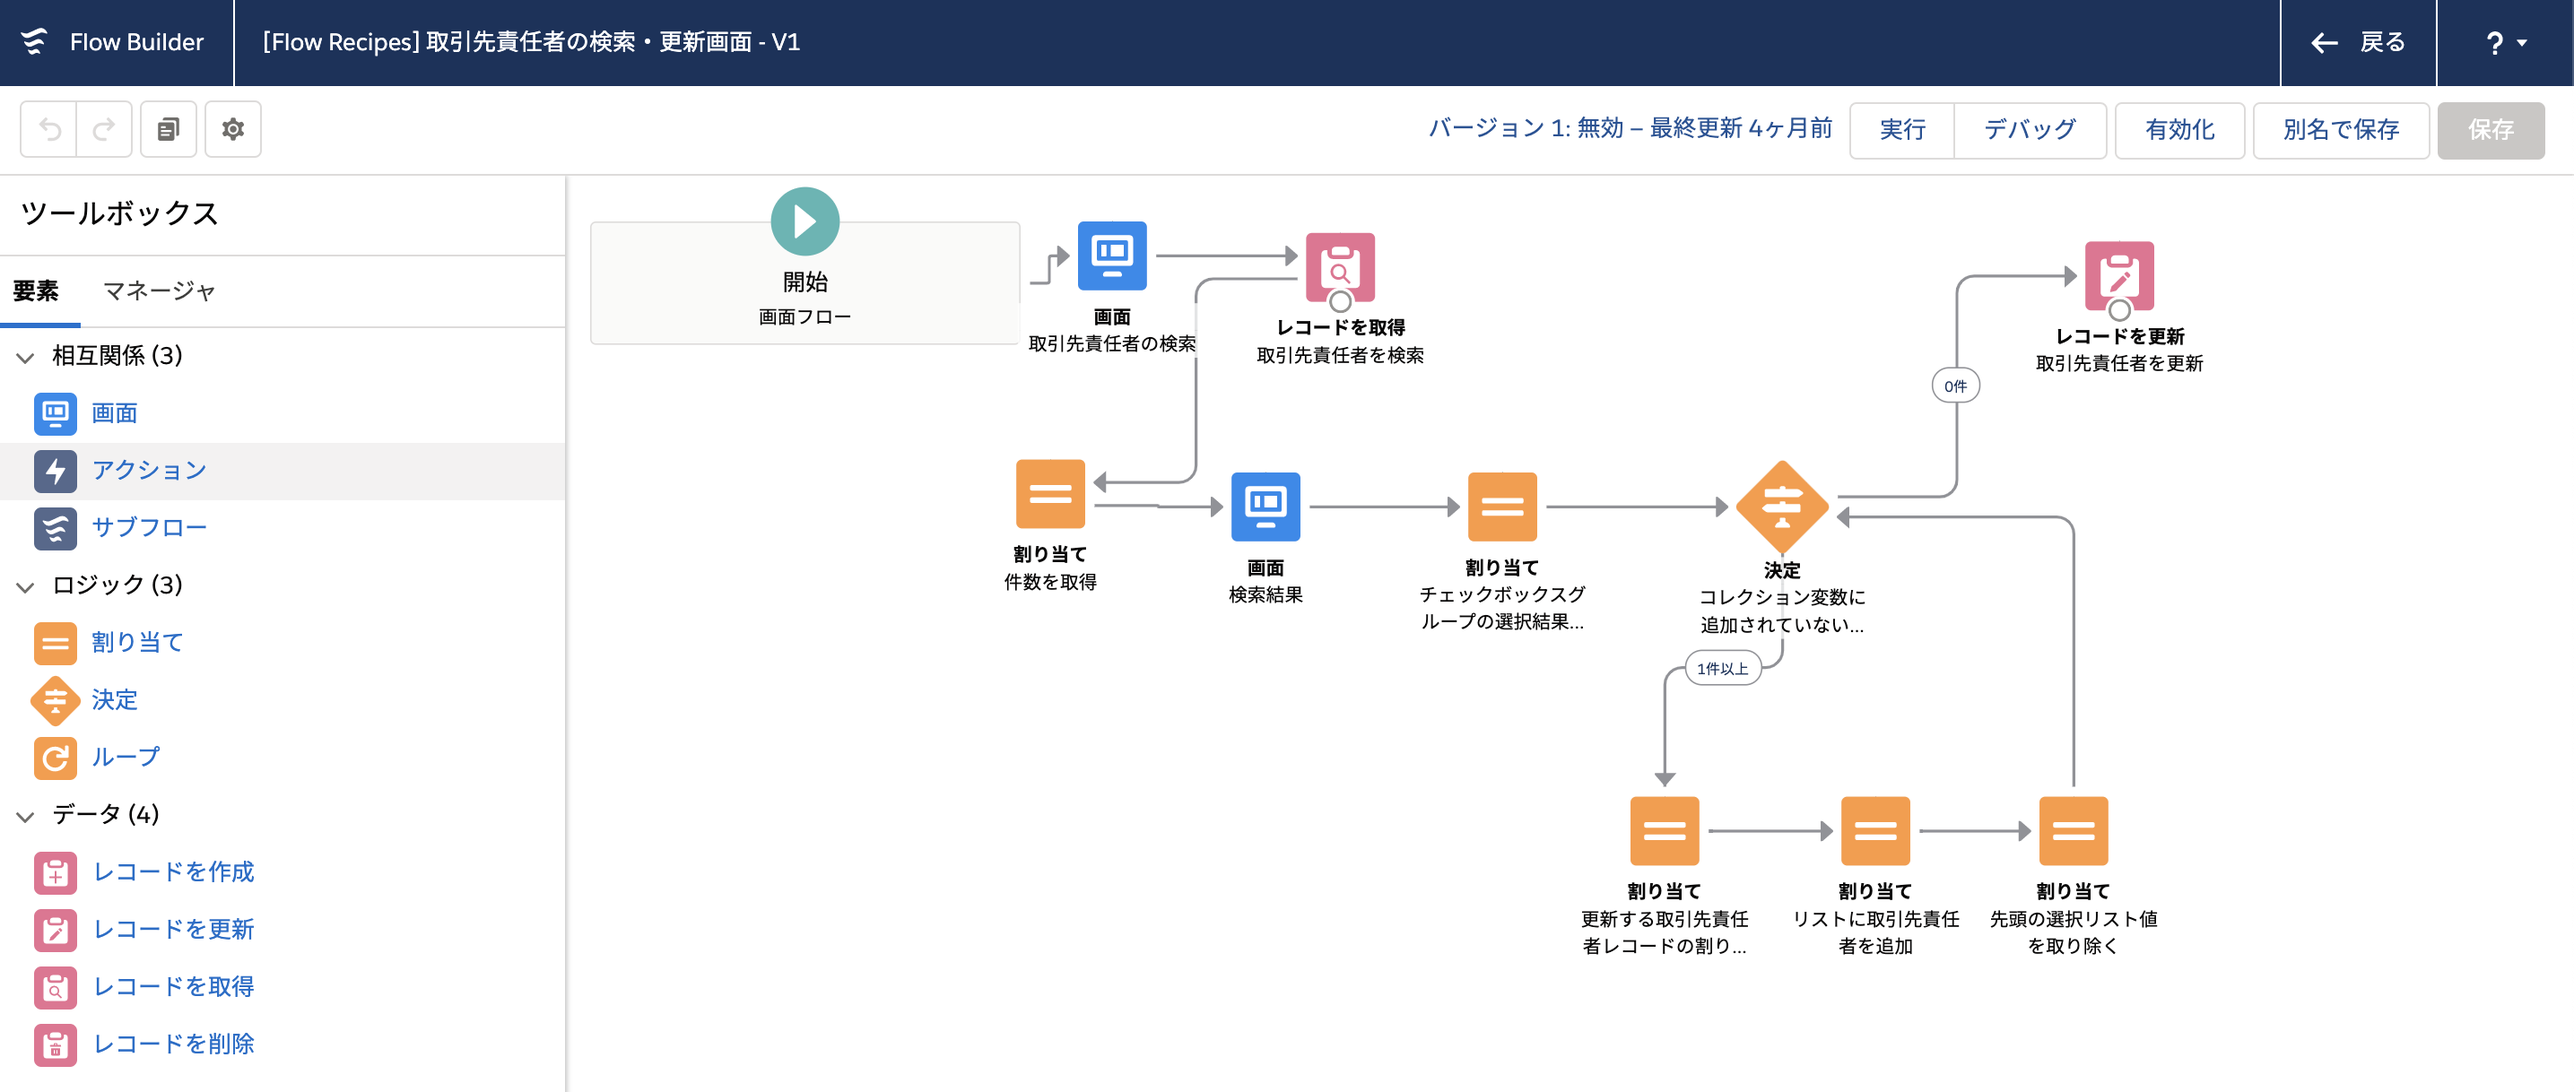
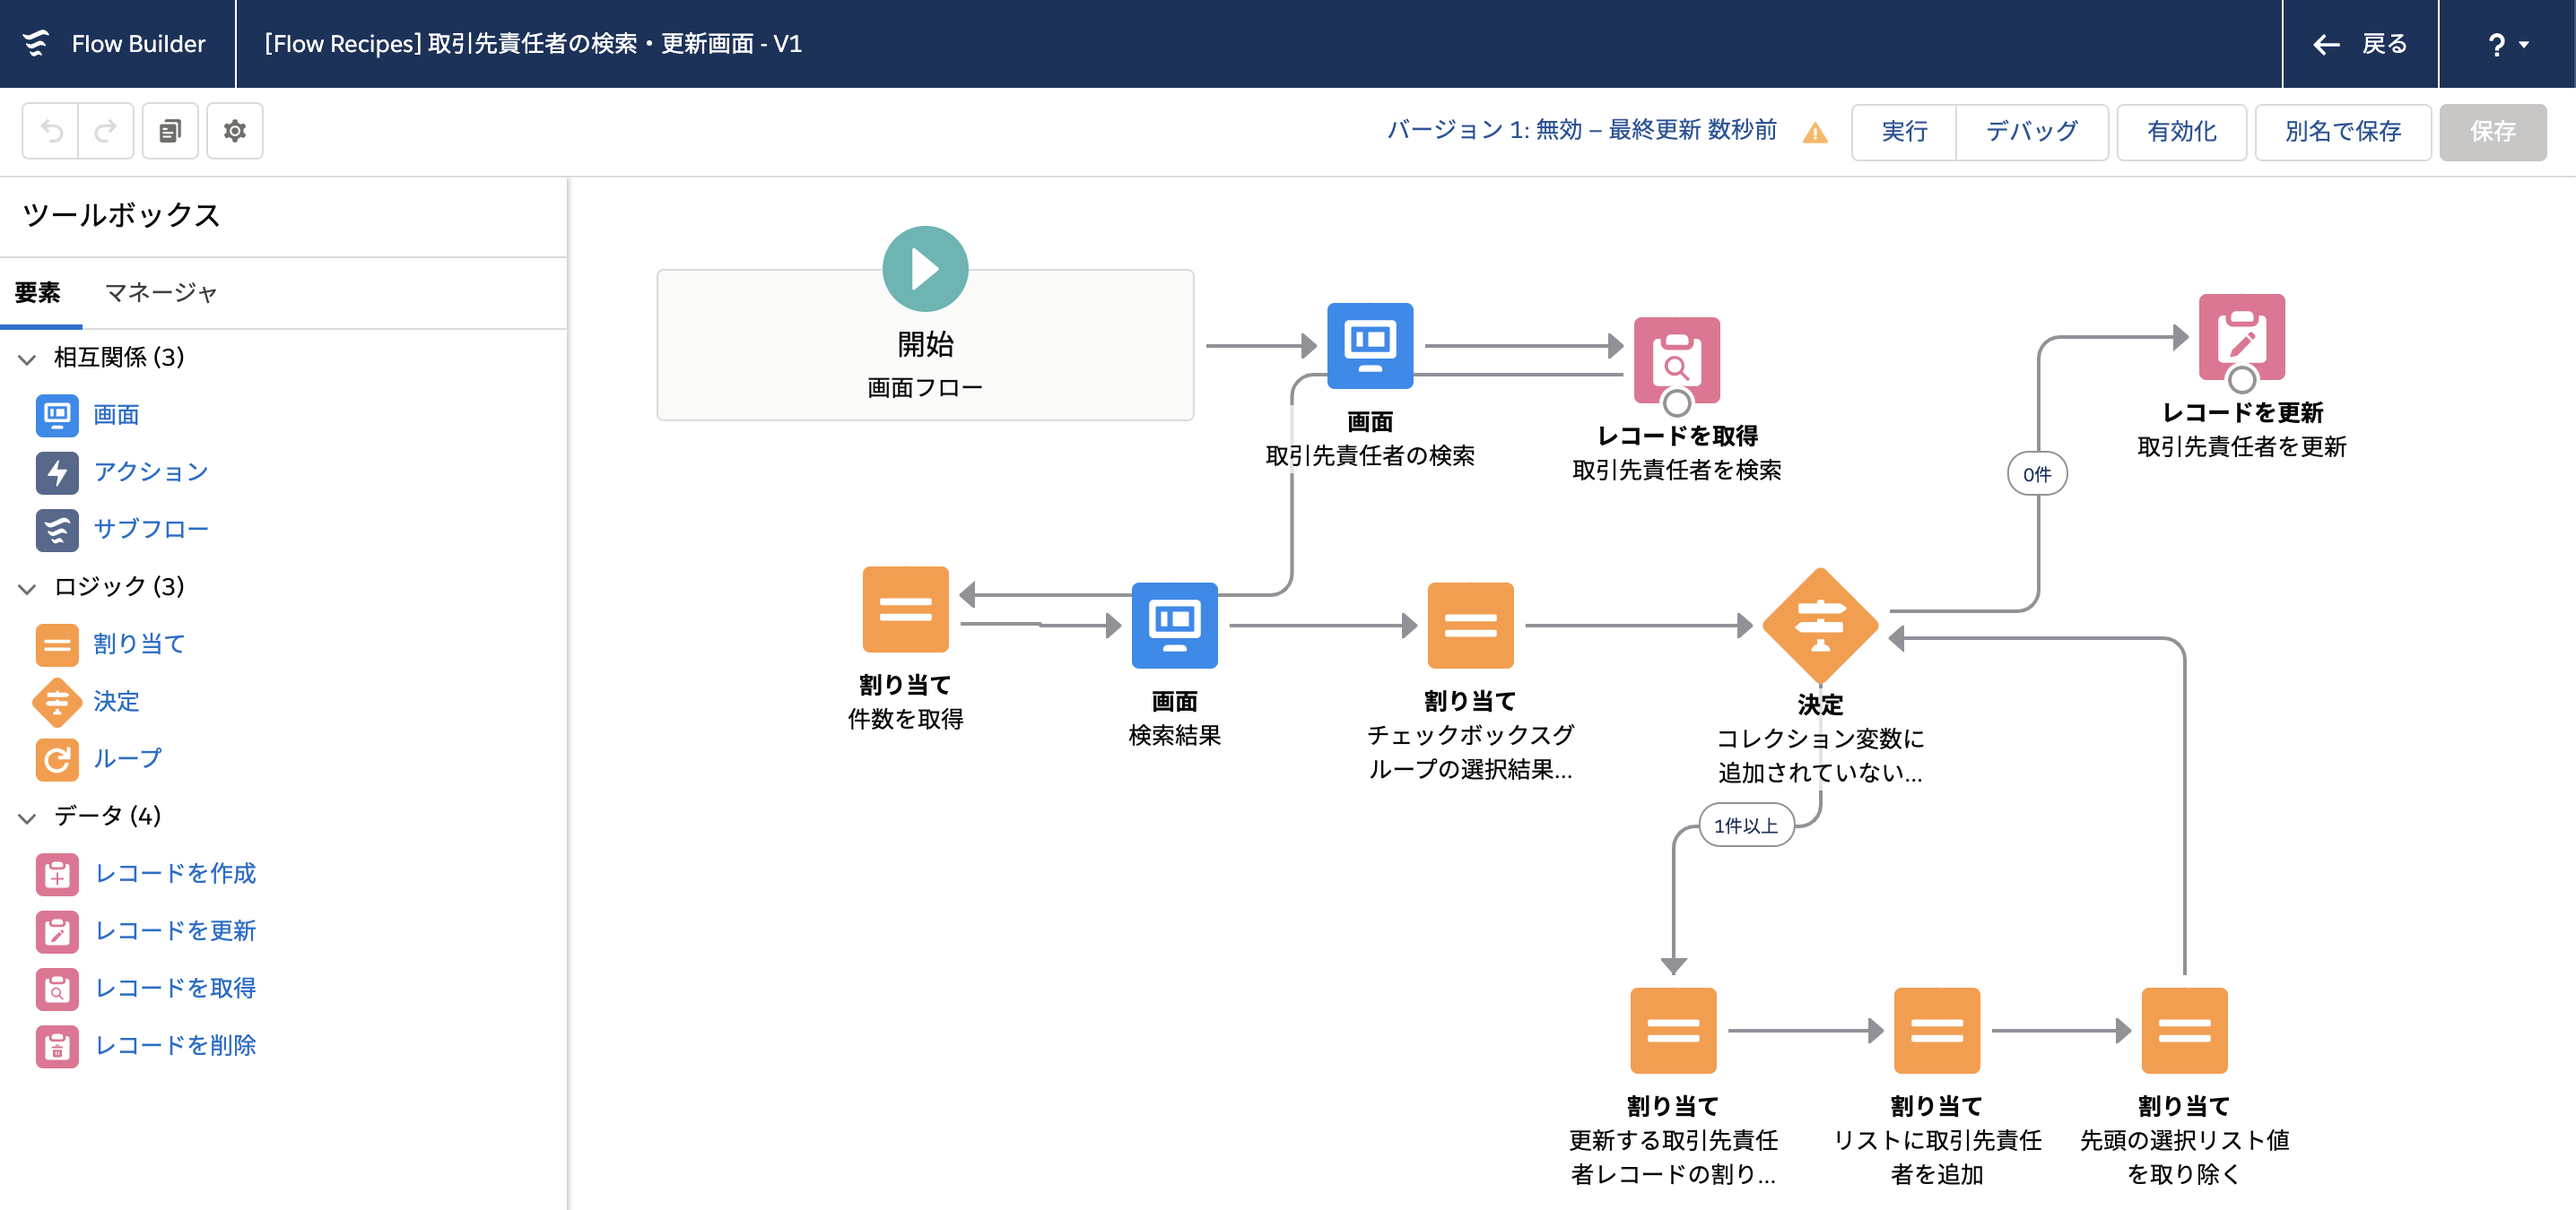
Use recordId as record variable  (#5)

diff --git a/content/changelog/index.md b/content/changelog/index.md
@@ -1,20 +1,23 @@
 ---
 title: リリースノート
 ---
-## 0.6.0 - 2020年7月20日
+## 0.7.0 - 2020年7月20日
+* Summer '20 から `recordId` 変数がテキストではなくレコード変数として扱えるようになったため、『[リードの更新画面](../lead-update-screen)』と『[取引先から取引先責任者へ一括メール送信する画面](../mass-email-to-contacts-screen)』 の `レコードを取得` 要素を省略
+
+## 0.6.0 - 2020年7月19日
 * Web サイトのテーマを変更して検索機能を追加
-* Summer '20 からループ内変数を明示的に設定する必要がなくなったため、[[毎朝9時に完了予定日を過ぎた商談の所有者に Chatter でメンションするスケジュールフロー]](../scheduled-opportunity-chatter-reminder/) と [[取引先から取引先責任者に一括メールを送信する画面]](../mass-email-to-contacts-screen/) の設定から独自のループ内変数を削除
-* Summer '20 から保存後フローが利用可能になったため、[[Web-to-ケース/メール-to-ケースで取引先責任者を自動作成]](../create-contact-update-case-from-web-or-email) の実装を保存後フローに変更し、プロセスビルダーを削除
-    * 保存後フローの例として、[[特定の取引先のケースを一括削除する]](../delete-cases-on-account) を追加
-* 補足として [[実装時の注意事項]](../design-guideline) と [[レコード変更フローの考慮事項]](../unsupported-features) を追加
+* Summer '20 からループ内変数を明示的に設定する必要がなくなったため、『[毎朝9時に完了予定日を過ぎた商談の所有者に Chatter でメンションするスケジュールフロー](../scheduled-opportunity-chatter-reminder/)』 と 『[取引先から取引先責任者に一括メールを送信する画面](../mass-email-to-contacts-screen/)』 の設定から独自のループ内変数を削除
+* Summer '20 から保存後フローが利用可能になったため、『[Web-to-ケース/メール-to-ケースで取引先責任者を自動作成](../create-contact-update-case-from-web-or-email)』の実装を保存後フローに変更し、プロセスビルダーを削除
+    * 保存後フローの例として、『[特定の取引先のケースを一括削除する](../delete-cases-on-account)』 を追加
+* 補足として 『[実装時の注意事項](../design-guideline)』 と 『[レコード変更フローの考慮事項](../unsupported-features)』を追加
 
 ## 0.5.0 - 2020年3月14日
-* [[システム管理者だけが自分が作成したキャンペーンを一括削除できる画面]](../mass-campaign-delete-by-admin-screen) を追加
-* [[ログイン直後にお知らせメッセージを表示]](../basic-login-flow) を追加
+* 『[システム管理者だけが自分が作成したキャンペーンを一括削除できる画面](../mass-campaign-delete-by-admin-screen)』を追加
+* 『[ログイン直後にお知らせメッセージを表示](../basic-login-flow)』を追加
 
 ## 0.4.1 - 2020年3月1日
-* [デフォルトの結果] の表示ラベルを修正
+* `デフォルトの結果` の表示ラベルを修正
 
 ## 0.4.0 - 2020年3月1日
-* [[取引先から取引先責任者に一括メールを送信する画面]](../mass-email-to-contacts-screen/) を追加
-* [[毎朝9時に完了予定日を過ぎた商談の所有者に Chatter でメンションするスケジュールフロー]](../scheduled-opportunity-chatter-reminder/) を追加
+* 『[取引先から取引先責任者に一括メールを送信する画面](../mass-email-to-contacts-screen/)』を追加
+* 『[毎朝9時に完了予定日を過ぎた商談の所有者に Chatter でメンションするスケジュールフロー](../scheduled-opportunity-chatter-reminder/)』を追加

diff --git a/content/lead-update-screen/index.md b/content/lead-update-screen/index.md
@@ -9,15 +9,13 @@ draft: false
 ![](screenshot.png)
 
 ## 使い方
-フローを有効化後、このフローを使用してリードのクイックアクションを新規作成するか、リードの Lightning ページにフローを直接配置して使用することができます。デバッグする場合は `recordId` に任意のリードのレコード Id を入力して試してください。
+フローを有効化後、このフローを使用してリードのクイックアクションを新規作成するか、リードの Lightning ページにフローを直接配置して使用することができます。デバッグする場合は `recordId` に任意のリードのレコードを選択してください。
 
 ![](how_to_use.png)
 
 ## ポイント
-### レコード Id の取得
-現在開いているレコード Id をフロー内で取得するには [入力] にチェックの入った `recordId` という名前のテキスト型の変数を用います。この変数には自動的に現在開いているレコード の Id がセットされます。
-
-### レコードの更新
+###  Lightning ページやアクションからレコードを取得
+現在開いているレコード Id をフロー内で取得するには [入力] にチェックの入った `recordId` という名前の**レコード型の変数**を用います。これまで、`recordId` は通常テキスト型の項目を用いて、フロー内で [レコードを取得] 要素を用いてレコード情報を取得していました。Summer '20 以降は、レコード型の変数を用いると、フロー内でレコードを取得し直す必要がなくなります。Lightning レコードページでフローを配置する際は、[レコードのすべての項目値をフロー変数に渡します] にチェックを入れてください。
 
 ### 選択リストのデフォルト値
 選択リストやラジオボタンで、現在開いているレコードの選択肢の値をデフォルト値に設定するには少し工夫が必要です。通常、オブジェクトの選択リスト項目を画面フローで使用する場合は、[選択リスト選択肢セット] を使用しますが、これ単独では現在開いているレコードの選択リスト値をデフォルト値として使用することができません。そこで、[レコード選択肢セット] を使用し、`PicklistValueInfo` オブジェクトから、現在開いている値以外の選択リスト値を取得します。加えて、現在開いているレコードの選択リスト値を個別の選択肢として作成し、これらを組み合わせます。
@@ -27,3 +25,6 @@ draft: false
 数式 `formula_CurrentLeadRatingLabel` で表現している選択リスト値の表示ラベルは、環境に合わせて修正してください。
 
 ![](formula.png)
+
+### レコードの更新
+レコードを更新する際は、[取引先の作成画面](../account-create-screen) のレコードの作成と同様に、個別に値を設定する方法と、レコード変数を使用する方法の 2 通りがあります。ここでは、一例としてレコード変数 `recordId` に値を割り当てた後、[レコードの更新] 要素でこのレコード変数を参照しています。個別に値を設定する方法でも更新できます。ぜひ試してみてください。

diff --git a/content/_index.md b/content/_index.md
@@ -8,12 +8,14 @@ draft: false
 ![](image.png)
 
 ## 📦使用方法
-以下からパッケージをインストールしてください。(ver 0.6 / Summer '20)
+以下からパッケージをインストールしてください。(ver 0.7 / Summer '20)
 
-* [Sandbox 組織](https://test.salesforce.com/packaging/installPackage.apexp?p0=04tf4000004MhniAAC) 
-* [Developer Edition 組織](https://login.salesforce.com/packaging/installPackage.apexp?p0=04tf4000004MhniAAC)
+* [Sandbox 組織](https://test.salesforce.com/packaging/installPackage.apexp?p0=04tf4000004MhnnAAC) 
+* [Developer Edition 組織](https://login.salesforce.com/packaging/installPackage.apexp?p0=04tf4000004MhnnAAC)
 * Trailhead Playground 組織
-    * パッケージ ID として、`04tf4000004MhniAAC` を使用してください。
+    * パッケージ ID として、`04tf4000004MhnnAAC` を使用してください。
+
+以前のバージョンのパッケージをインストールしたことがあり、フローを有効化している場合は、アップグレード後、新しいフローバージョンとして追加されます。
 
 ## 📚レシピ
 
@@ -22,7 +24,7 @@ draft: false
 |フロー名|フローから学べる内容|
 |---|---|
 |[取引先の作成画面](account-create-screen)|・[画面] の使い方<br>・[レコードの作成] の使い方<br>・他のフォームの値に応じてフォームの表示/非表示を切り替える|
-|[リードの更新画面](lead-update-screen)|・開いているレコードの ID を取得する<br>・レコード変数を用いた [レコードの更新] の使い方<br>・選択リスト値のデフォルト値として現在の値を取得する|
+|[リードの更新画面](lead-update-screen)|・開いているレコードの情報を取得する<br>・レコード変数を用いた [レコードの更新] の使い方<br>・選択リスト値のデフォルト値として現在の値を取得する|
 |[取引先と商談を1度に作成する画面](account-opportunity-create-screen)|・リレーションのあるオブジェクトのレコードを作成する|
 |[取引先から取引先責任者に一括メールを送信する画面](mass-email-to-contacts-screen)|・子レコードを取得する (コレクション変数の使い方)<br>・[ループ] の使い方<br>・[決定] の使い方<br>・メール送信アクション|
 |[商談と取引先責任者ロールを1度に作成する画面](opportunity-and-contact-role-create-screen)|・[ルックアップ] の使い方<br>・リレーションのあるオブジェクトのレコードを作成する<br>・固定の大きさのレコードコレクション変数を用いて複数のレコードを作成する|

diff --git a/content/mass-email-to-contacts-screen/index.md b/content/mass-email-to-contacts-screen/index.md
@@ -9,7 +9,7 @@ draft: false
 ![](screenshot.png)
 
 ## 使い方
-フローを有効化し、このフローを使用して取引先のクイックアクションを新規作成するか、取引先の Lightning ページにフローを配置します。デバッグで起動する場合は `recordId` に取引先のレコード ID を入力してください。
+フローを有効化し、このフローを使用して取引先のクイックアクションを新規作成するか、取引先の Lightning ページにフローを配置します。デバッグで起動する場合は `recordId` に任意の取引先のレコードを選択してください。
 
 ![](mass_email_screens.png)
 
